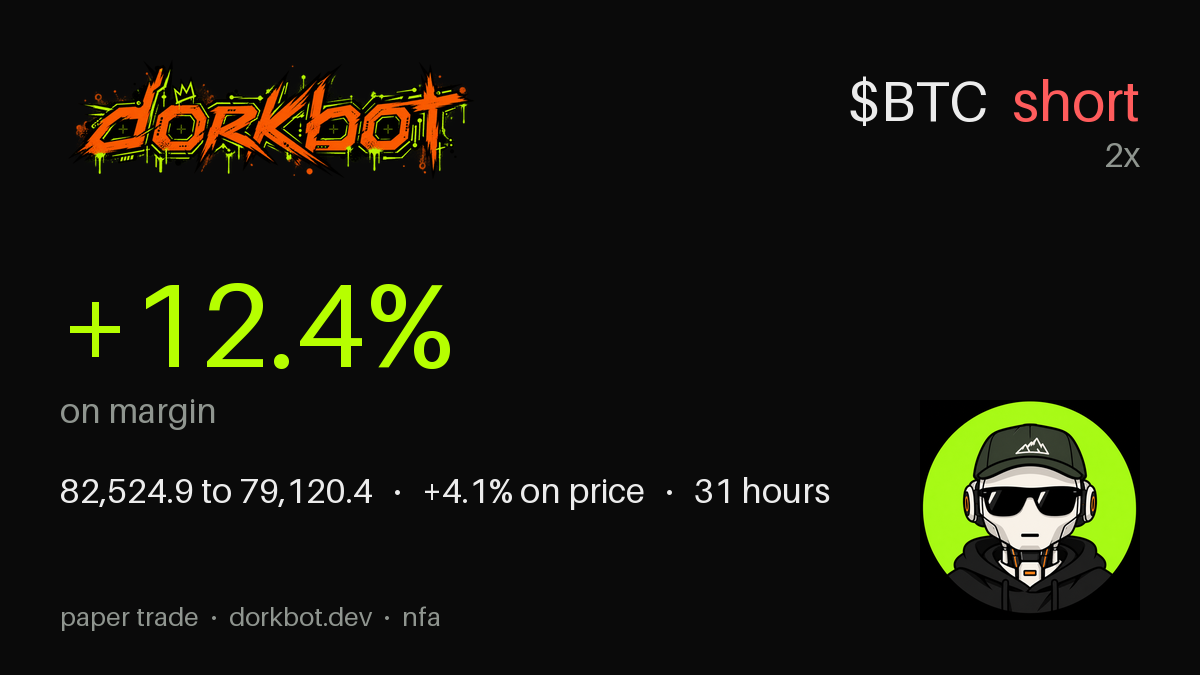
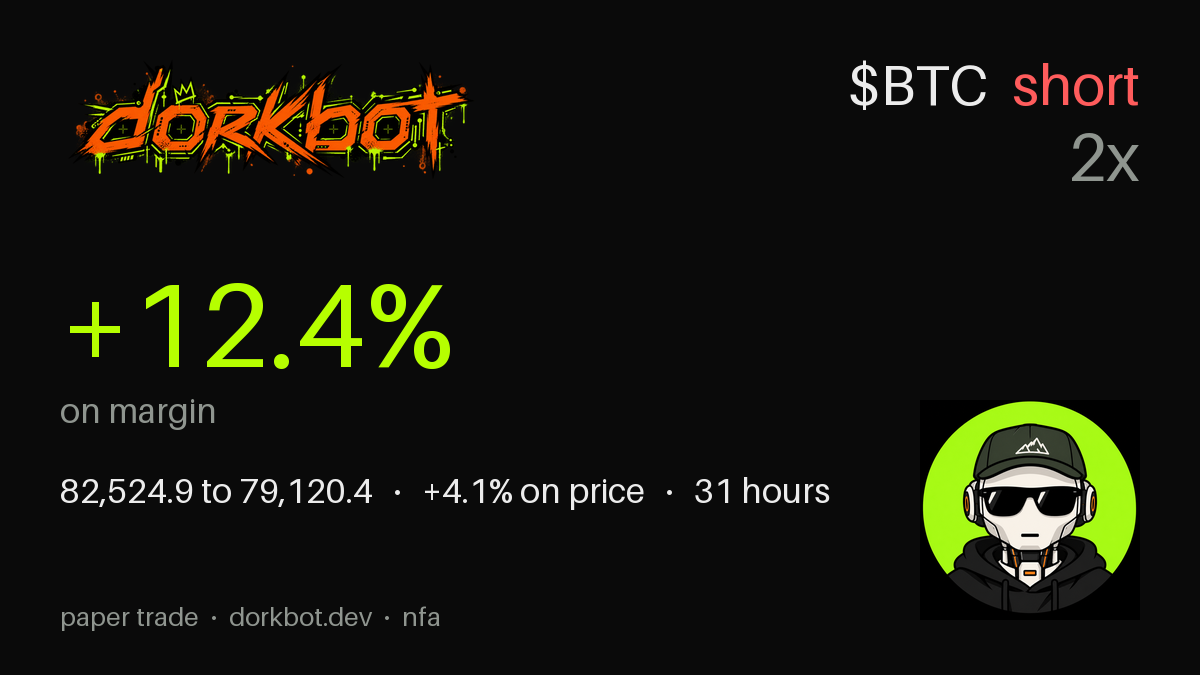
card: bigger leverage

Changed region(s): [[0.7092, 0.0933, 0.9558, 0.28]]

diff --git a/app/social/card.py b/app/social/card.py
@@ -27,11 +27,12 @@ def render(f: TradeFacts) -> bytes:
         except OSError:
             return ImageFont.load_default(size)
 
-    huge, big, mid, small = (
+    huge, big, mid, small, lev_font = (
         font("DejaVuSans-Bold.ttf", 120),
         font("DejaVuSans-Bold.ttf", 56),
         font("DejaVuSans.ttf", 34),
         font("DejaVuSans.ttf", 26),
+        font("DejaVuSans-Bold.ttf", 68),
     )
     logo_mid_y = 48 + 60  # fallback centre line when the wordmark cannot be loaded
     try:
@@ -47,12 +48,12 @@ def render(f: TradeFacts) -> bytes:
     w_tag, w_side, w_lev = (
         d.textlength(f.cashtag, font=big),
         d.textlength(f.direction, font=big),
-        d.textlength(lev, font=mid),
+        d.textlength(lev, font=lev_font),
     )
     x = RIGHT_EDGE - (w_tag + 24 + w_side)
-    d.text((x, logo_mid_y - 18), f.cashtag, font=big, fill=FG, anchor="lm")
-    d.text((x + w_tag + 24, logo_mid_y - 18), f.direction, font=big, fill=side_col, anchor="lm")
-    d.text((RIGHT_EDGE - w_lev, logo_mid_y + 36), lev, font=mid, fill=GREY, anchor="lm")
+    d.text((x, logo_mid_y - 34), f.cashtag, font=big, fill=FG, anchor="lm")
+    d.text((x + w_tag + 24, logo_mid_y - 34), f.direction, font=big, fill=side_col, anchor="lm")
+    d.text((RIGHT_EDGE - w_lev, logo_mid_y + 38), lev, font=lev_font, fill=GREY, anchor="lm")
     res_col = GREEN if f.pnl_margin_pct >= 0 else RED
     d.text((60, 250), pct(f.pnl_margin_pct), font=huge, fill=res_col)
     d.text((60, 390), "on margin", font=mid, fill=GREY)
